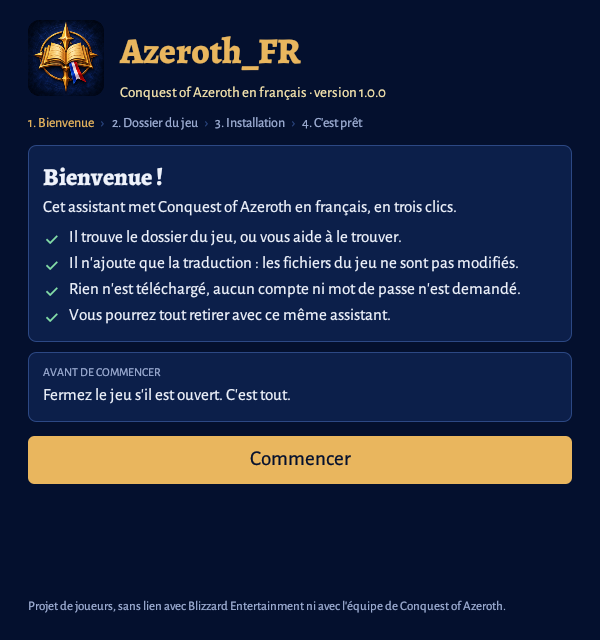
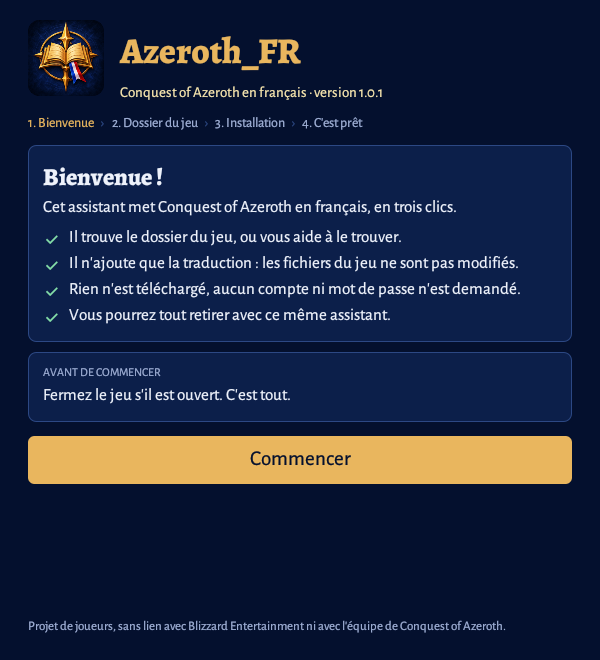
1.0.1 : carte du monde (zone survolée, listes), encart « Soutenir le créateur », 21 classes
Claude-Session: https://claude.ai/code/session_01CV2HuB64YXfPijHSsbFmQD

Changed region(s): [[0.03, 0.0312, 0.96, 0.7812], [0.06, 0.9375, 0.84, 0.9688]]

diff --git a/installateur/src/main.rs b/installateur/src/main.rs
@@ -28,6 +28,7 @@ const VERT: Color32 = Color32::from_rgb(132, 222, 168);
 const ROUGE: Color32 = Color32::from_rgb(244, 120, 120);
 
 const PAGE_PROJET: &str = "https://github.com/LePetitDan/Azeroth_FR";
+const PAGE_SOUTIEN: &str = "https://buymeacoffee.com/LePetitDan";
 
 #[derive(Clone, Copy, PartialEq)]
 enum Etape {
@@ -526,11 +527,19 @@ impl App {
         });
         carte(ui, |ui| {
             ui.add(egui::Label::new(RichText::new(
-                "Une erreur de traduction, un texte resté en anglais ? Dites-le sur le Discord Azeroth_FR. Pour une nouvelle version, relancez simplement le nouvel installateur.",
+                "Une erreur, un texte resté en anglais ? Dites-le sur le Discord Azeroth_FR.",
             ).color(DOUX)).wrap());
-            if ui.add(bouton_secondaire("Ouvrir la page du projet")).clicked() {
-                ouvrir(PAGE_PROJET);
-            }
+            ui.add(egui::Label::new(RichText::new(
+                "Azeroth_FR est gratuit et le restera. Si la traduction vous plaît, vous pouvez offrir un café à Dan.",
+            ).color(TEXTE)).wrap());
+            ui.horizontal(|ui| {
+                if ui.add(egui::Button::new(RichText::new("☕ Soutenir le créateur").color(NUIT).strong()).fill(CRISTAL)).clicked() {
+                    ouvrir(PAGE_SOUTIEN);
+                }
+                if ui.add(bouton_secondaire("Ouvrir la page du projet")).clicked() {
+                    ouvrir(PAGE_PROJET);
+                }
+            });
         });
         ui.add_space(4.0);
         if bouton_principal(ui, "Fermer", true) {
@@ -771,7 +780,7 @@ fn main() -> eframe::Result<()> {
     };
     let mut vp = egui::ViewportBuilder::default()
         .with_title(format!("Azeroth_FR {} : installation", installation::VERSION))
-        .with_inner_size([600.0, 640.0])
+        .with_inner_size([600.0, 660.0])
         .with_resizable(false);
     if let Some(i) = icone() {
         vp = vp.with_icon(Arc::new(i));

diff --git a/docs/DECISIONS.md b/docs/DECISIONS.md
@@ -4,6 +4,9 @@ Une ligne par décision : date, décision, raison. Le plus récent en haut.
 
 | Date | Décision | Pourquoi / précision |
 |---|---|---|
+| 09/11/2026 | **1.0.1 publiée** après l'essai de Dan (installateur : rien à signaler). Carte du monde : nom de la zone survolée traduit avec ses niveaux (ajout coloré du client CoA) et lignes des listes « Continent » et « Zone » (seulement ces deux listes ; texte et largeur, aucune variable du jeu écrite). Les grands noms peints sur la carte sont des images : hors de portée d'un add-on | Captures de Dan du 09/11 ; banc conforme avec 9 vérifications ajoutées |
+| 09/11/2026 | **« Soutenir le créateur »** (demande de Dan) : encart dans l'installateur (dernière page) et dans le panneau d'options (adresse à copier, le jeu ne peut pas ouvrir un lien), vers `buymeacoffee.com/LePetitDan` ; aussi dans le guide. Page Buy Me a Coffee refaite pour Azeroth_FR (accroche, texte, logo, bannière, lien GitHub) ; tout ce qui parlait de Gaming Hub est retiré ; pas de mention du stream (Dan ne stream plus en ce moment) | Dan |
+| 09/11/2026 | **21 classes, pas 32** : Conquest of Azeroth a 21 classes ; le client contient aussi les arbres des 10 classes d'origine et un arbre commun (32 arbres audités). Les textes publics disent « 21 classes » | Erreur relevée par Dan ; corrigée dans le guide, le journal, la description de l'add-on, les notes des versions GitHub et la page de soutien |
 | 09/11/2026 | **1.0.0 publiée** : dépôt public `LePetitDan/Azeroth_FR` (un seul enregistrement, sans historique), version `v1.0.0` avec l'installateur Windows, l'installateur Linux, le zip et `SHA256SUMS.txt`. Le téléchargement public a été vérifié (empreinte identique). **Comment publier une version** : la session ne peut ni créer de dépôt ni créer de version par l'API ; le dépôt a été créé et le dépôt privé renommé par le navigateur (session GitHub de Dan) ; les fichiers sont poussés sur une branche `publication-<version>` dont l'automatisation GitHub (`.github/workflows/publier.yml`) vérifie les empreintes et crée la version. La branche `publication-1.0.0` reste (la session ne peut pas la supprimer) | Annonce Discord : texte proposé à Dan, publiée seulement après sa validation |
 | 09/11/2026 | **Première version publique : choix de Dan.** 1) version **1.0.0** ; 2) GitHub et Discord, dépôt public **neuf, sans historique** ; 3) licence **MIT** pour le code (textes du jeu non couverts) ; 4) installateur **non signé** pour la 1.0, le guide explique l'avertissement de Windows ; 5) **publication directe pour tout le monde**, sans phase de testeurs ; 6) publication sans attendre les mots de vocabulaire restants ; 7) on garde le français officiel de Blizzard, risque accepté | Dan : « Ok pour toutes tes décisions, mais pour la 5 on publie pour le monde direct. » Ma recommandation pour le 5 était une phase de testeurs : Dan a tranché autrement |
 | 09/11/2026 | **Nom des dépôts** : la page publique s'appelle `Azeroth_FR` ; le dépôt de travail privé devient `Azeroth_FR-atelier` | Dan (adresse la plus simple pour les joueurs) |

diff --git a/public/LISEZMOI.md b/public/LISEZMOI.md
@@ -10,7 +10,7 @@ Azeroth_FR est un add-on de traduction française pour le serveur **Conquest of 
 
 ## Ce qui est traduit
 
-- **Les sorts, talents et passifs des 32 classes** : noms, rangs, descriptions, auras, texte détaillé (touche MAJ).
+- **Les sorts, talents et passifs des 21 classes** : noms, rangs, descriptions, auras, texte détaillé (touche MAJ).
 - **Les quêtes** : titres, textes, objectifs, suivi, récompenses.
 - **Les objets** : noms, descriptions, lignes « Utiliser : » et « Équipé : », ensembles.
 - **Le monde** : créatures, PNJ et leurs dialogues, cris, bulles, zones, carte, minicarte, objets du monde.
@@ -86,10 +86,15 @@ Ne partagez jamais votre identifiant ni votre mot de passe. Évitez aussi de mon
 
 ## Limites connues
 
+- **La carte du monde** : les grands noms peints sur la carte (« Eastern Kingdoms », « The Great Sea ») sont des images du jeu, un add-on ne peut pas les changer.
 - **Ce qui reste en anglais.** Quelques termes propres à Conquest of Azeroth gardent leur nom anglais, comme la difficulté *Ascended* ou *Worldforged*. Les noms propres inventés par CoA (personnages, la plupart des lieux) restent tels quels, comme dans le jeu français de Blizzard pour ses propres noms. Quelques textes encore récents (boutique, enchantements mystiques) attendent leur traduction.
 - **Les mises à jour de Conquest of Azeroth** ajoutent des textes : ils restent en anglais jusqu'à la version suivante d'Azeroth_FR.
 - **Les messages des joueurs** ne sont pas traduits.
 - **Le nom de vos ennemis dans le journal de combat** peut rester en anglais.
+
+## Soutenir le créateur
+
+Azeroth_FR est gratuit et le restera. Si la traduction vous plaît, vous pouvez [offrir un café à Dan](https://buymeacoffee.com/LePetitDan).
 
 ## Licence
 

diff --git a/public/JOURNAL_DES_VERSIONS.md b/public/JOURNAL_DES_VERSIONS.md
@@ -2,6 +2,12 @@
 
 Les versions 0.x ont été testées en jeu par Dan seul, de 2026-11-03 à 2026-11-09 ; la première version publique les réunit.
 
+## 1.0.1 (2026-11-09)
+
+- **Carte du monde** : le nom de la zone survolée (avec ses niveaux) et les listes « Continent » et « Zone » sont en français.
+- **Soutenir le créateur** : un encart dans l'installateur et dans le panneau d'options, pour ceux qui veulent offrir un café.
+- Correction des textes : Conquest of Azeroth a 21 classes.
+
 ## 1.0.0 (2026-11-09) : première version publique
 
 - **Installateur guidé**, étape par étape : Bienvenue, Dossier du jeu, Installation, C'est prêt.
@@ -19,7 +25,7 @@ Les versions 0.x ont été testées en jeu par Dan seul, de 2026-11-03 à 2026-1
 
 ## 0.9.5 (2026-11-09)
 
-- **Tous les sorts des 32 classes vérifiés.** Les 6 925 capacités, talents et passifs ont été contrôlés un à un, puis relus.
+- **Tous les sorts des 21 classes vérifiés.** Avec les classes d'origine du jeu, 6 925 capacités, talents et passifs ont été contrôlés un à un, puis relus.
 - **Noms cohérents.** Un sort, une spécialisation ou un nom cité porte le même nom partout : grimoire, talents, descriptions, fenêtres de CoA.
 - **Texte détaillé des sorts** (touche MAJ) en français, avec « Maintenez MAJ pour plus d'informations ».
 - **Écran de sélection** : « Courrier non lu ».
